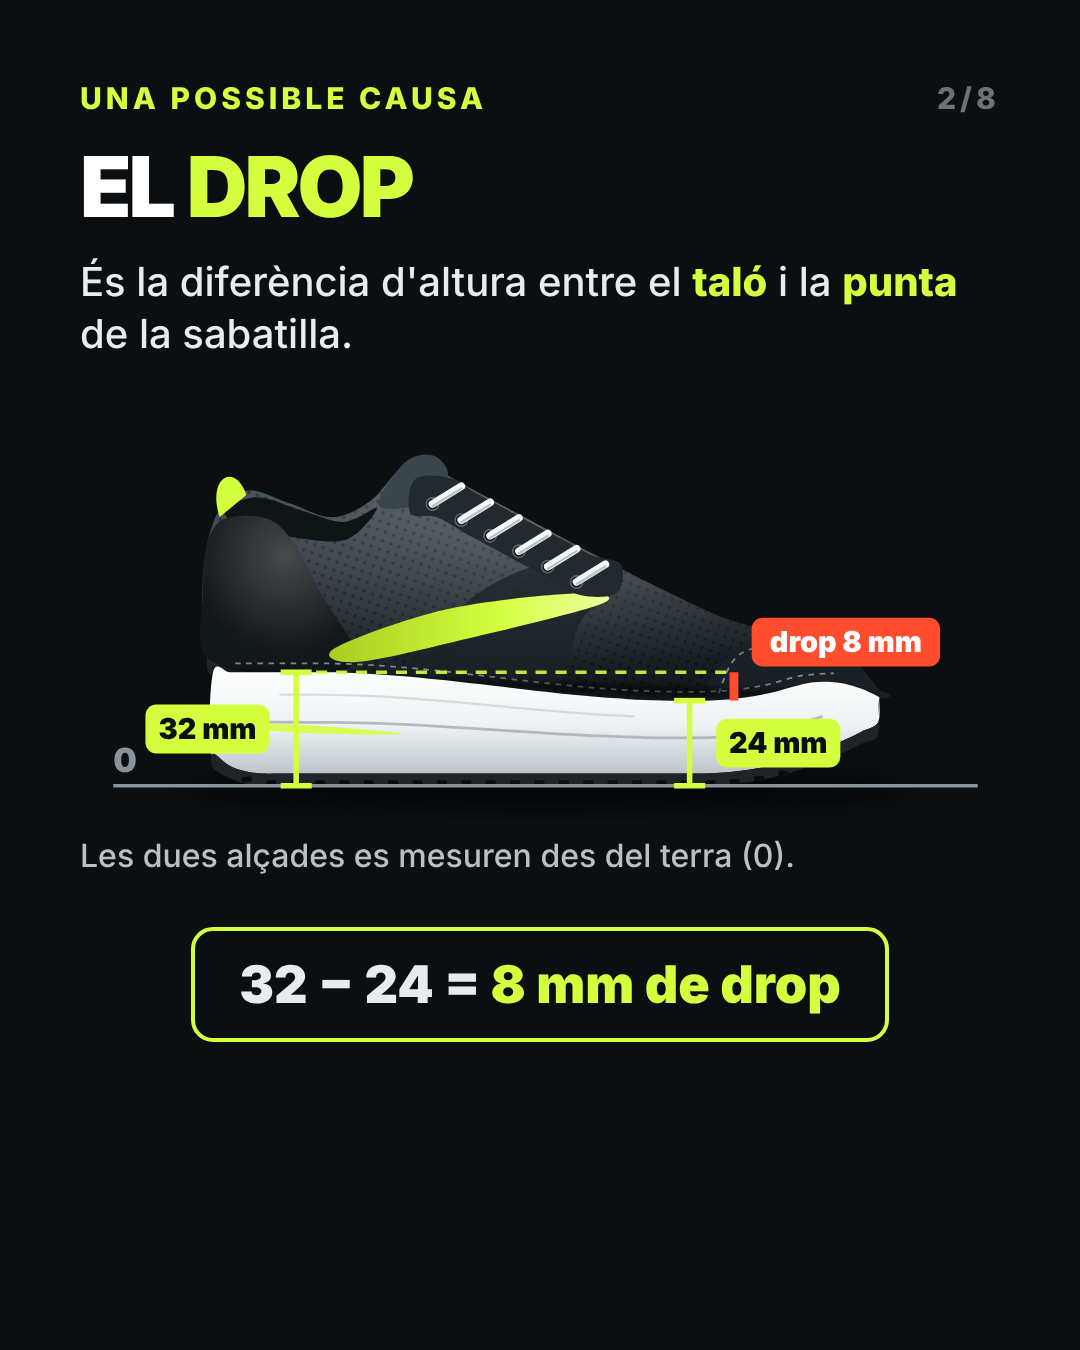
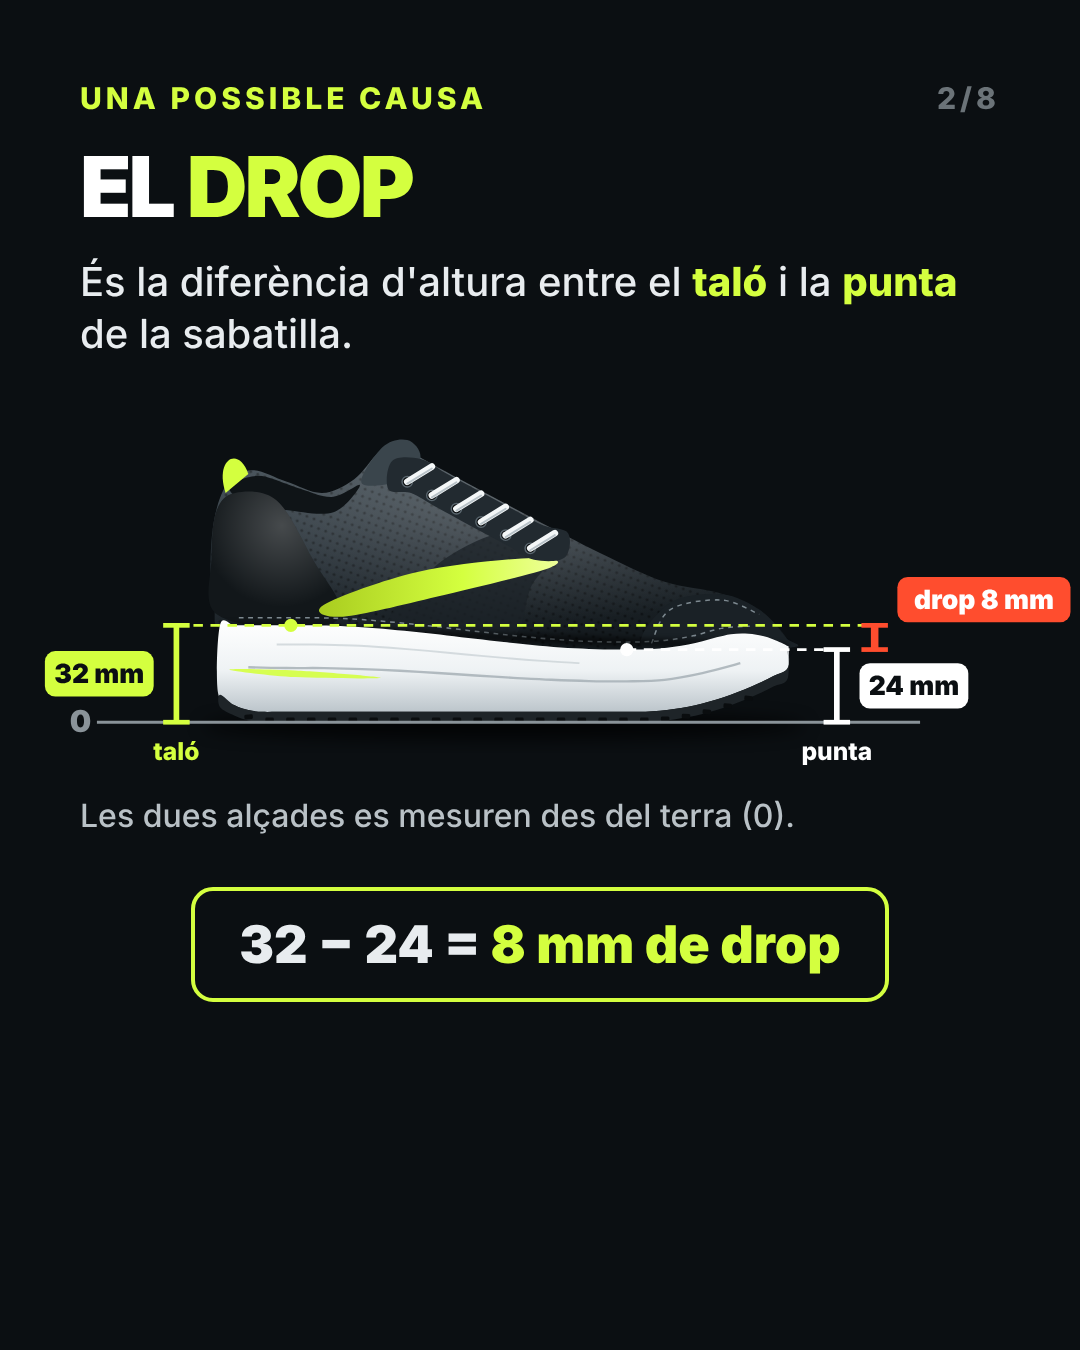
Carrusel drop v4: cotes fora de la sabatilla, des del terra
Claude-Session: https://claude.ai/code/session_0129rqGdsRmN9Z9aLzGCda8A

Changed region(s): [[0.0306, 0.3111, 1.0, 0.7778]]

diff --git a/media/publicacions/carrusel_drop/svgkit.py b/media/publicacions/carrusel_drop/svgkit.py
@@ -96,21 +96,27 @@ def shoe(uid, heel_mm, toe_mm, px=3.2, dims=False, accent=LIME):
 """
     if dims:
         th, tt = top(HX), top(FX)
-        def bar(x, y0, y1, lab, anchor):
-            tw = 112; tx = x - 24 - tw if anchor == "end" else x + 24; ty = y1 / 2 - 22
-            return (f'<line x1="{x}" y1="{y0}" x2="{x}" y2="{y1:.1f}" stroke="{accent}" stroke-width="5"/>'
-                    f'<line x1="{x-14}" y1="{y0}" x2="{x+14}" y2="{y0}" stroke="{accent}" stroke-width="5"/>'
-                    f'<line x1="{x-14}" y1="{y1:.1f}" x2="{x+14}" y2="{y1:.1f}" stroke="{accent}" stroke-width="5"/>'
-                    f'<rect x="{tx}" y="{ty:.1f}" width="{tw}" height="44" rx="10" fill="{accent}"/>'
-                    f'<text x="{tx+tw/2}" y="{ty+31:.1f}" text-anchor="middle" fill="#0B0F12" font-size="26" font-weight="900" font-family="Inter">{lab}</text>')
+        LX, RX = -46, 652
+        def pill(x, y, txt, fill, col, anchor):
+            tw = 30 + 17 * len(txt); tx = x - tw if anchor == "end" else x
+            return (f'<rect x="{tx:.1f}" y="{y-24:.1f}" width="{tw}" height="48" rx="11" fill="{fill}"/>'
+                    f'<text x="{tx+tw/2:.1f}" y="{y+10:.1f}" text-anchor="middle" fill="{col}" font-size="28" font-weight="900" font-family="Inter">{txt}</text>')
+        def vbar(x, y0, y1, c, wd=6):
+            return (f'<line x1="{x}" y1="{y0:.1f}" x2="{x}" y2="{y1:.1f}" stroke="{c}" stroke-width="{wd}"/>'
+                    f'<line x1="{x-14}" y1="{y0:.1f}" x2="{x+14}" y2="{y0:.1f}" stroke="{c}" stroke-width="5"/>'
+                    f'<line x1="{x-14}" y1="{y1:.1f}" x2="{x+14}" y2="{y1:.1f}" stroke="{c}" stroke-width="5"/>')
         g += f"""
-<line x1="-90" y1="0" x2="690" y2="0" stroke="#8A9399" stroke-width="3"/>
-<text x="-90" y="-12" text-anchor="start" fill="#8A9399" font-size="30" font-weight="900" font-family="Inter">0</text>
-<line x1="{HX}" y1="{th:.1f}" x2="{FX+40}" y2="{th:.1f}" stroke="{accent}" stroke-width="3" stroke-dasharray="10 8" opacity=".9"/>
-<line x1="{FX+40}" y1="{th:.1f}" x2="{FX+40}" y2="{tt:.1f}" stroke="#FF4D2E" stroke-width="8"/>
-<rect x="{FX+56}" y="{(th+tt)/2-62:.1f}" width="170" height="44" rx="10" fill="#FF4D2E"/>
-<text x="{FX+141}" y="{(th+tt)/2-31:.1f}" text-anchor="middle" fill="#fff" font-size="26" font-weight="900" font-family="Inter">drop {heel_mm-toe_mm} mm</text>
-{bar(HX, 0, th, f"{heel_mm} mm", "end")}{bar(FX, 0, tt, f"{toe_mm} mm", "start")}"""
+<line x1="-130" y1="0" x2="740" y2="0" stroke="#8A9399" stroke-width="3"/>
+<text x="-136" y="10" text-anchor="end" fill="#8A9399" font-size="32" font-weight="900" font-family="Inter">0</text>
+<line x1="{LX}" y1="{th:.1f}" x2="{RX+40}" y2="{th:.1f}" stroke="{accent}" stroke-width="3" stroke-dasharray="10 8"/>
+<line x1="{FX}" y1="{tt:.1f}" x2="{RX}" y2="{tt:.1f}" stroke="#fff" stroke-width="3" stroke-dasharray="10 8"/>
+<circle cx="{HX}" cy="{th:.1f}" r="7" fill="{accent}"/><circle cx="{FX}" cy="{tt:.1f}" r="7" fill="#fff"/>
+{vbar(LX, 0, th, accent)}{vbar(RX, 0, tt, "#fff")}{vbar(RX+40, tt, th, "#FF4D2E", 8)}
+{pill(LX-24, th/2, f"{heel_mm} mm", accent, "#0B0F12", "end")}
+{pill(RX+24, tt/2, f"{toe_mm} mm", "#fff", "#0B0F12", "start")}
+{pill(RX+64, (th+tt)/2 - 40, f"drop {heel_mm-toe_mm} mm", "#FF4D2E", "#fff", "start")}
+<text x="{LX}" y="40" text-anchor="middle" fill="{accent}" font-size="26" font-weight="800" font-family="Inter">taló</text>
+<text x="{RX}" y="40" text-anchor="middle" fill="#fff" font-size="26" font-weight="800" font-family="Inter">punta</text>"""
     return g, top
 
 def shoe_svg(uid, heel_mm, toe_mm, w=880, dims=False, pad=(110, 340, 110, 30), px=3.2):

diff --git a/media/publicacions/carrusel_drop/gen.py b/media/publicacions/carrusel_drop/gen.py
@@ -87,11 +87,11 @@ S.append(f"""<div class="s" style="padding:0">
 </div>""")
 
 # 2 QUÈ ÉS EL DROP
-big = shoe_svg("big", 32, 24, w=920, dims=True, pad=(120, 330, 110, 30))
+big = shoe_svg("big", 32, 24, w=1060, dims=True, pad=(190, 330, 330, 60))
 S.append(f"""<div class="s"><div class="top"><span class="k">UNA POSSIBLE CAUSA</span><span class="pg">2/8</span></div>
 <h1>El <em>drop</em></h1>
 <p>És la diferència d'altura entre el <b>taló</b> i la <b>punta</b> de la sabatilla.</p>
-<div style="margin-top:60px;position:relative">{big}
+<div style="margin-top:50px;margin-left:-40px;position:relative">{big}
 </div>
 <p style="font-size:32px;color:#B9C1C6;margin-top:16px">Les dues alçades es mesuren des del terra (0).</p>
 <div style="margin-top:50px;align-self:center;border:4px solid #D4FF3F;border-radius:22px;padding:22px 44px;font-size:52px;font-weight:900">32 − 24 = <span style="color:#D4FF3F">8 mm de drop</span></div>
@@ -100,8 +100,8 @@ S.append(f"""<div class="s"><div class="top"><span class="k">UNA POSSIBLE CAUSA<
 # 3 TIPUS DE DROP
 rows = ""
 for uid, h, t, lab, sub in [("z", 26, 26, "0 mm", "Pla · «zero drop»"), ("m", 29, 24, "4–6 mm", "Baix"), ("a", 34, 23, "8–12 mm", "Alt · el més habitual")]:
-    sv = shoe_svg(uid, h, t, w=690, pad=(130, 340, 200, 20), px=3.6, dims=True)
-    rows += f'<div style="display:flex;align-items:center;gap:10px;margin-top:14px;margin-left:-20px"><div style="width:250px;padding-left:20px;flex-shrink:0"><div style="font-size:50px;font-weight:900;color:#D4FF3F;white-space:nowrap">{lab}</div><div style="font-size:28px;font-weight:600;color:#B9C1C6;margin-top:4px">{sub}</div></div>{sv}</div>'
+    sv = shoe_svg(uid, h, t, w=780, pad=(190, 330, 330, 55), px=3.6, dims=True)
+    rows += f'<div style="display:flex;align-items:center;gap:0;margin-top:26px;margin-left:-30px"><div style="width:230px;padding-left:30px;flex-shrink:0"><div style="font-size:50px;font-weight:900;color:#D4FF3F;white-space:nowrap">{lab}</div><div style="font-size:28px;font-weight:600;color:#B9C1C6;margin-top:4px">{sub}</div></div>{sv}</div>'
 S.append(f"""<div class="s"><div class="top"><span class="k">TIPUS DE DROP</span><span class="pg">3/8</span></div>
 <h1>No totes són <em>iguals</em></h1>
 {rows}
